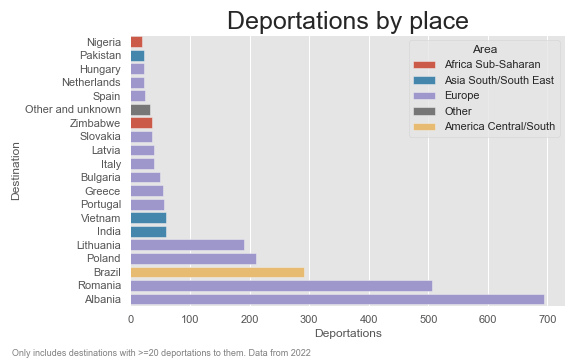
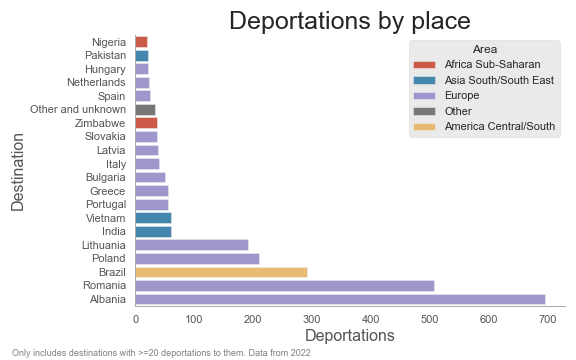
Plots with correct styling

diff --git a/deportation_data_investigation.py b/deportation_data_investigation.py
@@ -9,9 +9,25 @@ import pandas as pd
 import matplotlib.pyplot as plt; plt.style.use('ggplot')
 import seaborn as sns
 
-# https://www.gov.uk/government/statistical-data-sets/returns-and-detention-datasets#immigration-detention
-
 fp = 'RawData\\returns-datasets-dec-2022.xlsx'
+
+# =============================================================================
+# Get plt parameters to match other graphs, from TellingTheStory
+# =============================================================================
+
+plt.rcParams['figure.figsize'] = (15, 11)
+plt.rcParams['axes.titlesize'] = 28
+plt.rcParams['axes.labelsize'] = 16
+plt.rcParams['axes.edgecolor'] = '#A9A9A9'
+plt.rcParams['axes.spines.top'] = False
+plt.rcParams['axes.spines.right'] = False
+plt.rcParams['savefig.transparent'] = True
+
+watermark_str = "Enforced return data from Gov.uk, covering 2016-2022. More at https://antiraids.github.io"
+
+# =============================================================================
+# Get data
+# =============================================================================
 
 # Get the right sheet name
 xls = pd.ExcelFile(fp)
@@ -22,6 +38,10 @@ df = pd.read_excel(fp, sheet_name='Data - Ret_D02', header=1)
 df.head(1).T
 df_slc = df[df['Return type group'] == 'Enforced return']
 df_slc = df_slc[df_slc['Year'] >= 2022]
+
+# =============================================================================
+# 2022 data: investigation
+# =============================================================================
 
 by_country = df_slc.groupby('Return destination').sum()
 by_region = df_slc.groupby('Return destination region').sum()
@@ -48,7 +68,10 @@ ax.annotate('Only includes destinations with >=20 deportations to them. Data\
 plt.tight_layout()
 plt.savefig('Outputs\\Deportations_by_place_2022.png')
 
-# Since 2016
+# =============================================================================
+# Since 2016, totals
+# =============================================================================
+
 df_slc = df[df['Return type group'] == 'Enforced return']
 df_slc = df_slc[df_slc['Year'] >= 2016]
 by_place = df_slc.groupby(['Return destination', 'Return destination region']).sum()
@@ -67,11 +90,13 @@ colorblind_palette = {
     'Other': '#000000',  # black
     'Africa Sub-Saharan': '#0072B2'  # blue
         }  # because this is the same order as the legend, this work below too
-fig, ax = plt.subplots(1, 1, figsize=(8, 5))
+fig, ax = plt.subplots()
 sns.barplot(data=by_place, x='Deportations', y='Destination',
             hue='Area', dodge=False, ax=ax, palette=colorblind_palette.values())
-ax.set_title('Top 20 countries deported to since 2016', fontsize=25)
+ax.set_title('Top 20 countries deported to since 2016')
 ax.set_ylabel('')
+plt.annotate(watermark_str, (0.03, 0.03), color='grey', fontsize=15,
+             xycoords='figure fraction')
 plt.tight_layout()
 plt.savefig('Outputs\\Deportations_by_place_2016.png')
 
@@ -79,7 +104,10 @@ plt.savefig('Outputs\\Deportations_by_place_2016.png')
 for i in by_place.index:
     print(f'{by_place.loc[i, "Destination"]}: {by_place.loc[i, "Deportations"]: .0f}')
 
-# Over time
+# =============================================================================
+# Since 2016, by year
+# =============================================================================
+
 by_time_20 = df_slc.groupby(['Return destination', 'Return destination region', 'Year']).sum()
 by_time_20 = by_time_20.reset_index().sort_values('Number of returns')
 by_time_20 = by_time_20[by_time_20['Return destination'].isin(by_place['Destination'])]
